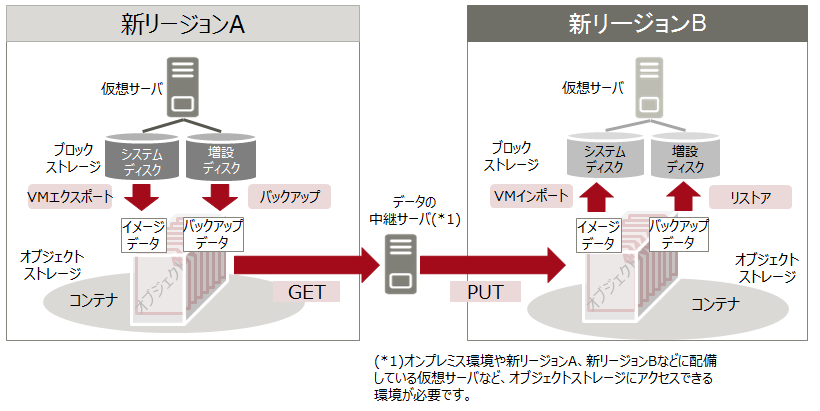
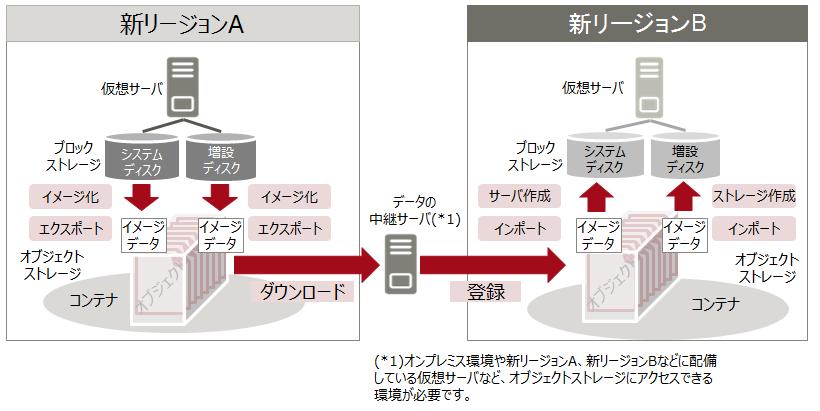
#11 対応

diff --git a/FAQ/README.md b/FAQ/README.md
@@ -2,16 +2,16 @@
 
 新リージョンについてよくある問い合わせ。
 
-| QUESTION                                  | ANSWER                                                       |
-| ----------------------------------------- | ------------------------------------------------------------ |
-| アピールポイントは？                      | ・可用性が向上し、SLAの適用が容易になりました。<br />・シングルAZのシンプル構成のため設計や運用などの負担が軽減されます。<br />・ベアメタルが提供されます。<br />・BCPサポートのため、データ（ストレージ）をリージョン間でコピーするための機能が提供されます。 |
-| 旧リージョンと何が違うの？                | ベースとなっているOpenStackのバージョンが違います。<br />また富士通独自開発を加えておらず、素のOpenstackを使っています。そのため世の中で広く使われているAnsibleといったツールが使いやすくなりました。 |
-| 旧リージョンに比べて何が良いの？①         | シングルAZ構成での可用性が向上しました。<br />例）<br />・ 電源やネットワーク機器など、設備機器の多重度をアップしました。<br />・物理サーバ故障時の影響範囲を極小化しました。<br />結果、シングルAZの利用でSLAが適用されるようになりました。 |
-| 旧リージョンに比べて何が良いの？②         | シングルAZ構成のため、設計、構築、テスト、運用の負担が大幅に軽減されます。 |
-| 旧リージョンに比べて何が良いの？③         | SAP HANA専用ではないベアメタルが提供されます。               |
+| QUESTION                                  | ANSWER                                                                                                                                                                                                                                                                                      |
+|:------------------------------------------|:--------------------------------------------------------------------------------------------------------------------------------------------------------------------------------------------------------------------------------------------------------------------------------------------|
+| アピールポイントは？                      | ・可用性が向上し、SLAの適用が容易になりました。<br />・シングルAZのシンプル構成のため設計や運用などの負担が軽減されます。<br />・ベアメタルが提供されます。<br />・BCPサポートのため、データ（ストレージ）をリージョン間でコピーするための機能が提供されます。                              |
+| 旧リージョンと何が違うの？                | ベースとなっているOpenStackのバージョンが違います。<br />また富士通独自開発を加えておらず、素のOpenstackを使っています。そのため世の中で広く使われているAnsibleといったツールが使いやすくなりました。                                                                                       |
+| 旧リージョンに比べて何が良いの？①         | シングルAZ構成での可用性が向上しました。<br />例）<br />・ 電源やネットワーク機器など、設備機器の多重度をアップしました。<br />・物理サーバ故障時の影響範囲を極小化しました。<br />結果、シングルAZの利用でSLAが適用されるようになりました。                                                |
+| 旧リージョンに比べて何が良いの？②         | シングルAZ構成のため、設計、構築、テスト、運用の負担が大幅に軽減されます。                                                                                                                                                                                                                  |
+| 旧リージョンに比べて何が良いの？③         | SAP HANA専用ではないベアメタルが提供されます。                                                                                                                                                                                                                                              |
 | 旧リージョンに比べて考慮が必要なことは？① | 機能や構成の容易さを改善した影響等で、技術的考慮が必要になった部分があります。<br />例）<br />・シングルAZなので、データセンターダウンといった大規模災害におけるBCPやDRPの観点<br />・ロードバランサー機能はOpenStack標準のロードバランサー機能を提供します。Active/Standbyの冗長構成です。 |
-| 旧リージョンに比べて考慮が必要なことは？② | 一部旧リージョンとサービスメニューや機能が変わった部分もあり、注意が必要です。<br />例）<br />・2018年6月時点でオブジェクトストレージやVMエクスポート機能がありません（今後提供予定）<br />・プロジェクト間接続機能がありません（今後提供予定ですが、現時点で必要な場合は個別に相談ください）<br />・オートスケールしたVMをロードバランサー配下に入れるための作業が必要です |
-| 旧リージョンに比べて価格は？              | 同価格帯です。                                               |
-| ユーザーポータルは旧リージョンと同じ？    | 基本的に同じです。ログイン後のリージョン選択で新リージョンが選択できます。<br />細かい機能部分では変わった部分もあります。（AZ指定が無くなった等）詳しくは[こちら](../userportal/README.md)を参照ください。 |
-| APIは旧リージョンと同じ？                 | 同じAPIもあれば異なるAPIもあります。詳しくは[こちら](../API/README.md)を参照ください。<br />全体を網羅した情報が必要な場合はAPIリファレンスを参照ください。 |
-| 旧リージョンと同じシステム構成で良い？    | 可用性向上等の基盤の変更に伴い、旧リージョンと違った構成でシステム設計が必要な場合があります。旧リージョンからの移行の際はご注意ください。<br />例）<br />・１つのネットワークを２つの仮想ルータに接続できない。<br />・ネットワークコネクターの廃止 |
+| 旧リージョンに比べて考慮が必要なことは？② | 一部旧リージョンとサービスメニューや機能が変わった部分もあり、注意が必要です。<br />例）<br />・プロジェクト間通信機能を利用する場合は、ヘルプデスクにお問い合わせください<br />・オートスケールしたVMをロードバランサー配下に入れるための作業が必要です                                    |
+| 旧リージョンに比べて価格は？              | 同価格帯です。                                                                                                                                                                                                                                                                              |
+| ユーザーポータルは旧リージョンと同じ？    | 基本的に同じです。ログイン後のリージョン選択で新リージョンが選択できます。<br />細かい機能部分では変わった部分もあります。（AZ指定が無くなった等）詳しくは[こちら](../userportal/README.md)を参照ください。                                                                                 |
+| APIは旧リージョンと同じ？                 | 同じAPIもあれば異なるAPIもあります。詳しくは[こちら](../API/README.md)を参照ください。<br />全体を網羅した情報が必要な場合はAPIリファレンスを参照ください。                                                                                                                                 |
+| 旧リージョンと同じシステム構成で良い？    | 可用性向上等の基盤の変更に伴い、旧リージョンと違った構成でシステム設計が必要な場合があります。旧リージョンからの移行の際はご注意ください。<br />例）<br />・１つのネットワークを２つの仮想ルータに接続できない。<br />・ネットワークコネクターの廃止                                        |

diff --git a/userportal/functiontable.md b/userportal/functiontable.md
@@ -2,38 +2,36 @@
 
 ユーザーポータルの新リージョン実装状況です。
 
-|                          |                        | 一覧 | 詳細 | 作成 | 削除 |  編集   |
-| ------------------------ | ---------------------- | :--: | :--: | :--: | :--: | :-----: |
-| コンピュート             | 仮想サーバ             |  ✓   |  ✓   |  ✓   |  ✓   |    ✓    |
-|                          | キーペア               |  ✓   |  ✓   |  ✓   |  ✓   |    -    |
-|                          | イメージ               |  ✓   |  ✓   |  ✓   |  ✓   |    -    |
-|                          | スケジュール           | N/A  | N/A  | N/A  | N/A  |   N/A   |
-| ストレージ               | ブロックストレージ     |  ✓   |  ✓   |  ✓   |  ✓   |    ✓    |
-|                          | オブジェクトストレージ | N/A  | N/A  | N/A  | N/A  |   N/A   |
-|                          | スナップショット       |  ✓   |  ✓   |  ✓   |  ✓   |    ✓    |
-| ネットワーク             | 仮想ネットワーク       |  ✓   |  ✓   |  ✓   |  ✓   |    ✓    |
-|                          | 仮想ルータ             |  ✓   |  ✓   |  ✓   |  ✓   |    ✓    |
-|                          | セキュリティグループ   |  ✓   |  ✓   |  ✓   |  ✓   |    ✓    |
-|                          | グローバルIP           |  ✓   |  -   |  ✓   |  ✓   |    -    |
-|                          | ファイアーウォール     |  ✓   |  ✓   |  ✓   |  ✓   |    ✓    |
-|                          | DNS(*1)                |  -   |  -   |  -   |  -   |    -    |
-|                          | ロードバランサー       |  ✓   |  ✓   |  ✓   |  ✓   | N/A(*2) |
-|                          | VPNサービス(SSL-VPN)   |  ✓   |  ✓   |  ✓   |  -   |    ✓    |
-|                          | VPNサービス(IPSecVPN)  | N/A  | N/A  | N/A  | N/A  |   N/A   |
-| データベース             | データベース仮想サーバ | N/A  | N/A  | N/A  | N/A  |   N/A   |
-| テンプレート             | スタック               | N/A  | N/A  | N/A  | N/A  |   N/A   |
-| 監視                     | モニタリング           | N/A  | N/A  | N/A  | N/A  |   N/A   |
-|                          | アラーム               | N/A  | N/A  | N/A  | N/A  |   N/A   |
-| インポート・エクスポート | VMインポート           | N/A  | N/A  | N/A  | N/A  |   N/A   |
-|                          | VMエクスポート         | N/A  | N/A  | N/A  | N/A  |   N/A   |
-| API実行(*3)              |                        |  -   |  -   |  -   |  -   |    -    |
-| ログ                     | 操作ログ               |  ✓   |  ✓   |  -   |  -   |    -    |
+|                          |                        | 提供  |
+|:-------------------------|:-----------------------|:-----:|
+| コンピュート             | 仮想サーバ             |   ✓   |
+|                          | キーペア               |   ✓   |
+|                          | イメージ               |   ✓   |
+|                          | スケジュール           |  N/A  |
+| ストレージ               | ブロックストレージ     |   ✓   |
+|                          | オブジェクトストレージ |   ✓   |
+|                          | スナップショット       |   ✓   |
+| ネットワーク             | 仮想ネットワーク       |   ✓   |
+|                          | 仮想ルータ             |   ✓   |
+|                          | セキュリティグループ   |   ✓   |
+|                          | グローバルIP           |   ✓   |
+|                          | ファイアーウォール     | ✓(*1) |
+|                          | DNS                    |  －   |
+|                          | ロードバランサー       | ✓(*2) |
+|                          | VPNサービス(SSL-VPN)   |   ✓   |
+|                          | VPNサービス(IPSecVPN)  |   ✓   |
+| データベース             | データベース仮想サーバ |  N/A  |
+| テンプレート             | スタック               |  N/A  |
+| 監視                     | モニタリング           |  N/A  |
+|                          | アラーム               |   ✓   |
+| インポート・エクスポート | VMインポート           |  N/A  |
+|                          | VMエクスポート         |  N/A  |
+| API実行                  |                        |   ✓   |
+| ログ                     | 操作ログ               |   ✓   |
 
 ✓：提供  
 N/A：今後提供予定  
--：旧リージョン含め提供なし  
+－：提供なし  
 
-(*1)DNSは東日本第1リージョンのみの提供です。  
-(*2)新規作成時も含めルールを設定、編集する機能は今後提供予定です。  
-(*3)API実行は旧リージョンと同じく実行機能の提供です。  
-
+(\*1)[ファイアーウォールサービスの制限事項](https://doc.cloud.global.fujitsu.com/lib/iaas/jp/restriction/v3/firewall_limitation.pdf)をご覧ください。  
+(\*2)編集はAPIを利用してください。  

diff --git a/userportal/README.md b/userportal/README.md
@@ -4,18 +4,13 @@
 
 主な相違点は下記表を参照ください。
 
-| 項目                                 | 旧リージョン                                                 | 新リージョン                                                 |
-| ------------------------------------ | ------------------------------------------------------------ | ------------------------------------------------------------ |
-| メニュー／機能                       | -                                                            | 未リリース機能やポータル未実装のメニューがあります。(*1)<br />ユーザーポータル実装済機能の詳細は[こちら](functiontable.md)を参照ください。 |
-| 初期表示画面                         | ダッシュボード画面                                           | 仮想サーバ一覧画面(*1)                                       |
-| 各機能のAZ名表示／選択               | 有り                                                         | 無し<br />新リージョンはシングルAZです。<br />AZ指定要否の詳細は[こちら](az-parameter.md)を参照ください。 |
-| ファイアーウォール名と説明の文字制限 | 名称：255文字以内<br />説明：255文字以内                     | 名称：255バイト以内<br />説明：1024バイト以内                |
-| ロードバランサー機能(*2)             | 旧リージョンのロードバランサー仕様に合わせたインタフェースです。 | 新リージョンのロードバランサー仕様に合わせたインタフェースです。 |
+| 項目                                 | 旧リージョン                                                     | 新リージョン                                                                                                                               |
+|:-------------------------------------|:-----------------------------------------------------------------|:-------------------------------------------------------------------------------------------------------------------------------------------|
+| メニュー／機能                       | -                                                                | 未リリース機能やポータル未実装のメニューがあります。(*1)<br />ユーザーポータル実装済機能の詳細は[こちら](functiontable.md)を参照ください。 |
+| 初期表示画面                         | ダッシュボード画面                                               | 仮想サーバ一覧画面(*1)                                                                                                                     |
+| 各機能のAZ名表示／選択               | あり                                                             | 無し<br />新リージョンはシングルAZです。                                                                                                   |
+| ファイアーウォール名と説明の文字制限 | 名称：255文字以内<br />説明：255文字以内                         | 名称：255バイト以内<br />説明：1024バイト以内                                                                                              |
+| ロードバランサー機能(*2)             | 旧リージョンのロードバランサー仕様に合わせたインタフェースです。 | 新リージョンのロードバランサー仕様に合わせたインタフェースです。                                                                           |
 
 (*1)今後のダッシュボード機能リリースに伴い変更予定です。  
 (*2)機能仕様の変更に伴い、ユーザーポータル画面も大幅に変更しています。機能の詳細は機能説明書、APIリファレンスを参照ください。
-
-
-
-
-

diff --git a/storagefunction/copy-to-another-region.md b/storagefunction/copy-to-another-region.md
@@ -1,32 +1,45 @@
 # ストレージリージョン間コピー
 
-仮想サーバのブロックストレージデータをリージョン間でコピーし、他リージョンで復元するための基本的な流れは次の通りです。
+仮想サーバのブロックストレージを他リージョンへコピーするための、基本的な流れは次の通りです。  
 
-1. 仮想サーバのブロックストレージデータをVMエクスポート機能、バックアップ機能（*1）を用いてオブジェクトストレージに格納
-2. オブジェクトストレージの機能を使い、中継サーバを経由して他リージョンへデータをコピー
-3. 他リージョンに格納されたデータからVMインポート機能、リストア機能を用いて仮想サーバを復元
+1. 仮想サーバのブロックストレージをイメージ化  
+2. イメージデータをエクスポートし、オブジェクトストレージに格納  
+3. 中継サーバを経由して、他リージョンのオブジェクトストレージにコピー  
+4. コピーしたイメージデータを用いて、仮想サーバを作成  
 
-(*1)増設ディスクのバックアップ機能は新リージョンのみの提供です。(2018年9月末予定)
 
+
+-----
 
 
 ## 旧リージョン
 
+旧リージョンでは、増設ディスクをイメージ化できません。
+
 ![drp-sample-old](images/drp-sample-old.png)
 
-旧リージョンでは、増設ディスクをオブジェクトストレージにバックアップする機能が提供されていません。
 
+
+-----
 
 
 ## 新リージョン
 
+新リージョンでは、増設ディスクのイメージ化、およびエクスポート機能を利用できるため、他リージョンへのコピーが容易になります。  
+
+- 他リージョンのイメージは参照できないため、リージョン毎にイメージを登録してください。  
+
 ![drp-sample-new](images/drp-sample-new.png)
 
-新リージョンでは、増設ディスクをオブジェクトストレージにバックアップする機能が提供される(2018年9月末予定)ため、リージョン間でのブロックストレージデータのコピーが旧リージョンに比べ容易になります。
+
 
 -----
 
+
 #### 補足情報
 
-- ライセンスの都合上、システムディスクのコピーは新リージョン同士、もしくは旧リージョン同士のみです。新リージョンから旧リージョン、または旧リージョンから新リージョンへのコピーは実施できません。
+- ライセンスの都合上、システムディスクのコピーは新リージョン同士、もしくは旧リージョン同士のみです。  
+新リージョンから旧リージョン、または旧リージョンから新リージョンへのコピーは実施できません。  
 
+- 旧リージョンにおいても、以下の機能追加を予定しています。  
+    - 増設ディスクのイメージ化、およびエクスポート機能  

diff --git a/serverfunction/README.md b/serverfunction/README.md
@@ -3,17 +3,14 @@
 
 
 | カテゴリ                                | 旧リージョン | 新リージョン                                                 |
-| --------------------------------------- | ------------ | ------------------------------------------------------------ |
-| [仮想サーバタイプ（Flavor）](flavor.md) | 提供有り     | 提供あり<br />旧リージョンとの差異はリンク先を参照ください。 |
-| [提供OS](OS.md)                         | 提供有り     | 提供あり<br />旧リージョンとの差異はリンク先を参照ください。 |
-| [提供ソフトウェア](software.md)         | 提供有り     | 提供あり<br />旧リージョンとの差異はリンク先を参照ください。 |
-| ベアメタルサービス                      | 提供無し     | 提供有り(東日本リージョン3のみ(*1))                          |
-| 専有仮想サーバ                          | 提供有り     | 提供無し                                                     |
-| SAP向けサービス                         | 提供有り     | 提供無し                                                     |
-| SAP HANA向けサービス                    | 提供有り     | 提供無し                                                     |
-| 仮想サーバエクスポート                  | 提供有り     | 今後提供予定(*2)                                             |
+|:----------------------------------------|:-------------|:-------------------------------------------------------------|
+| [仮想サーバタイプ（Flavor）](flavor.md) | 提供あり     | 提供あり<br />旧リージョンとの差異はリンク先を参照ください。 |
+| [提供OS](OS.md)                         | 提供あり     | 提供あり<br />旧リージョンとの差異はリンク先を参照ください。 |
+| [提供ソフトウェア](software.md)         | 提供あり     | 提供あり<br />旧リージョンとの差異はリンク先を参照ください。 |
+| ベアメタルサービス                      | 提供あり     | 提供あり(東日本リージョン3のみ(*1))                          |
+| 専有仮想サーバ                          | 提供あり     | 提供無し                                                     |
+| SAP向けサービス                         | 提供あり     | 提供無し                                                     |
+| SAP HANA向けサービス                    | 提供あり     | 提供無し                                                     |
+| 仮想サーバエクスポート                  | 提供あり     | 提供あり                                                     |
 
-(*1)西日本リージョン3は2018年8月提供予定です。
-
-(*2)2018年9月末提供予定です。
-
+(*1)西日本リージョン３については今後提供予定です。

diff --git a/storagefunction/README.md b/storagefunction/README.md
@@ -2,23 +2,12 @@
 
 
 
-| カテゴリ                                                     | 旧リージョン                                   | 新リージョン                             |
-| ------------------------------------------------------------ | ---------------------------------------------- | ---------------------------------------- |
-| ブロックストレージ                                           | スタンダード：HDD<br />ハイパフォーマンス：SSD | スタンダード：SSD<br />※標準でSSDです    |
-| [オブジェクトストレージ](objectstorage.md)                   | 提供有り                                       | 提供有り（西日本リージョン3のみ(*1)）    |
-| NAS                                                          | 提供有り                                       | 今後提供予定(*2)                         |
-| バックアップ(増設ディスク)(*3)                               | 提供無し                                       | 今後提供予定(*4)                         |
-| [ストレージリージョン間コピー](copy-to-another-region.md)(*5) | システムディスクのみ可能                       | システムディスク、増設ディスクともに可能 |
+| カテゴリ                                                  | 旧リージョン                                   | 新リージョン                             |
+|:----------------------------------------------------------|:-----------------------------------------------|:-----------------------------------------|
+| ブロックストレージ                                        | スタンダード：HDD<br />ハイパフォーマンス：SSD | スタンダード：SSD<br />※標準でSSDです    |
+| [オブジェクトストレージ](objectstorage.md)                | 提供あり                                       | 提供あり                                 |
+| NAS                                                       | 提供あり                                       | 今後提供予定(*1)                         |
+| 増設ディスクのイメージ化                                  | 提供無し                                       | 提供あり                                 |
+| [ストレージリージョン間コピー](copy-to-another-region.md) | システムディスクのみ可能                       | システムディスク、増設ディスクともに可能 |
 
-(*1)東日本リージョン3での提供開始は9月末予定です。    
-(*2)提供日は未定です。  
-(*3)仮想サーバ用のブロックストレージ（増設ディスク）をオブジェクトストレージにバックアップする機能です。  
-(*4)2018年9月末提供予定です。  
-(*5)2018年9月末提供予定です。      
-
-
-
-
-
-
-
+(*1)提供日は未定です。  

diff --git a/networkdesign/README.md b/networkdesign/README.md
@@ -1,13 +1,13 @@
 # ネットワーク機能
 
-| カテゴリ                                             | 変更ポイント                                                 |
-| ---------------------------------------------------- | ------------------------------------------------------------ |
-| [仮想ルータとネットワークの接続](vrouter-network.md) | 新リージョンでは１つの仮想ルータに複数ネットワークを接続します。 |
-| [ネットワークコネクター](networkconnector.md)        | 新リージョンではネットワークコネクターが廃止されました。     |
-| [プロジェクト間通信](projectconnection.md)           | ネットワーク構成や接続プロセスに差異／注意点があります。     |
-| L2延伸                                               | 新リージョンではL2延伸機能が提供されます。（東日本リージョン3のみ(*1)） |
-| [ファイアーウォール](fwaas.md)                       | ルール変更（FWポリシー変更）の反映タイミングに違いがあります。 |
+| カテゴリ                                             | 変更ポイント                                                                                        |
+|:-----------------------------------------------------|:----------------------------------------------------------------------------------------------------|
+| [仮想ルータとネットワークの接続](vrouter-network.md) | 新リージョンでは１つの仮想ルータに複数ネットワークを接続します。                                    |
+| [ネットワークコネクター](networkconnector.md)        | 新リージョンではネットワークコネクターが廃止されました。                                            |
+| [プライベート接続](privateconnection.md)             | ネットワーク構成に差異／注意点があります。                                                          |
+| [プロジェクト間通信](projectconnection.md)           | ネットワーク構成や接続プロセスに差異／注意点があります。                                            |
+| L2延伸                                               | 新リージョンではL2延伸機能が提供されます。（東日本リージョン3のみ(*1)）                             |
+| [ファイアーウォール](fwaas.md)                       | ルール変更（FWポリシー変更）の反映タイミングに違いがあります。                                      |
 | [ロードバランサー](lbaas.md)                         | 新リージョンではOpenStack標準のロードバランサー機能が提供されます。（旧リージョンは富士通独自開発） |
 
 (*1)西日本リージョン３については今後提供予定です。
-

diff --git a/API/knowledge/getAPIendpoint.md b/API/knowledge/getAPIendpoint.md
@@ -1,13 +1,46 @@
 # APIエンドポイントの取得方法
 
-API発行例です。トークンを取得後、以下のようなコマンドで取得可能です。
+## API発行例  
+
+トークンを取得後、以下のようなコマンドで取得可能です。
+
+- $REG：リージョン  
+- $IDENTITY：利用者管理のAPIエンドポイント  
+- $TOKEN：取得したトークン  
 
 ```
-curl -k -X POST -s $TOKEN/v3/auth/tokens -H "Content-Type: application/json" -H "Accept:application/json" -d '{"auth":{"identity":{"methods":["password"],"password":{"user":{"domain":{"name":"'$DOMAIN_NAME'"}, "name": "'$USER_NAME'", "password": "'"$USER_PW"'"}}}, "scope": { "project": {"name": "'$PROJECT_NAME'", "domain":{"name":"'$DOMAIN_NAME'"}}}}}' | jq '.token.catalog[].endpoints[].url'
+REG=jp-west-3
+IDENTITY=https://identity.$REG.cloud.global.fujitsu.com
+TOKEN=zzzzz
+
+curl -s $IDENTITY/v3/auth/catalog -X GET -H "X-Auth-Token: $TOKEN" | jq '.catalog[].endpoints[].url'
 ```
 
-- $TOKEN：トークン
-- $DOMAIN_NAME：ドメイン名
-- $USER_NAME：ユーザー名
-- $USER_PW：パスワード
 
+---
+
+
+実行結果(2018年10月時点)  
+
+- xxxxx：プロジェクトID  
+
+```
+"https://compute.jp-west-3.cloud.global.fujitsu.com/v2.1/xxxxx"
+"https://keymanagement.jp-west-3.cloud.global.fujitsu.com"
+"https://image.jp-west-3.cloud.global.fujitsu.com"
+"https://objectstorage.jp-west-3.cloud.global.fujitsu.com/v2/AUTH_xxxxx"
+"https://networking.jp-west-3.cloud.global.fujitsu.com"
+"https://orchestration.jp-west-3.cloud.global.fujitsu.com/v1/xxxxx"
+"https://blockstorage.jp-west-3.cloud.global.fujitsu.com/v2/xxxxx"
+"https://database.jp-west-3.cloud.global.fujitsu.com/v1.0/xxxxx"
+"https://blockstorage.jp-west-3.cloud.global.fujitsu.com/v3/xxxxx"
+"https://identity.jp-west-3.cloud.global.fujitsu.com"
+"https://compute.jp-west-3.cloud.global.fujitsu.com/v2/xxxxx"
+"https://nfv.jp-west-3.cloud.global.fujitsu.com"
+"https://baremetal.jp-west-3.cloud.global.fujitsu.com"
+"https://telemetry.jp-west-3.cloud.global.fujitsu.com"
+"https://software.jp-west-3.cloud.global.fujitsu.com"
+"https://autoscale.jp-west-3.cloud.global.fujitsu.com"
+"https://identity.jp-west-3.cloud.global.fujitsu.com/v3"
+"https://import-export.jp-west-3.cloud.global.fujitsu.com"
+```

diff --git a/networkdesign/projectconnection.md b/networkdesign/projectconnection.md
@@ -1,15 +1,16 @@
 # プロジェクト間通信
 
-ネットワーク構成や接続プロセスに差異／注意点があります。
+ネットワーク構成や接続プロセスに差異／注意点があります。  
+新リージョンの詳細については、[プロジェクト間ネットワーク接続利用ガイド](https://doc.cloud.global.fujitsu.com/lib/iaas/jp/Inter_project_connection_guide/Inter_project_connection_guide.pdf)をご覧ください。
 
-|                      | 旧リージョン                                         | 新リージョン                                                 |
-| -------------------- | ---------------------------------------------------- | ------------------------------------------------------------ |
-| ネットワーク構成(*1) | １つのネットワークを複数の仮想ルータに接続可能です。 | １つのネットワークは１つの仮想ルータに接続するシンプル構成です。 |
-| 接続プロセス         | APIを用いて利用者自身で接続です。                    | 利用申請後、サービス提供側で接続します。(*2)                 |
+|                  | 旧リージョン                                         | 新リージョン                                                     |
+|:-----------------|:-----------------------------------------------------|:-----------------------------------------------------------------|
+| ネットワーク構成 | １つのネットワークを複数の仮想ルータに接続可能です。 | １つのネットワークは１つの仮想ルータに接続するシンプル構成です。 |
+| 接続プロセス     | APIを用いて利用者自身で接続です。                    | 利用申請後、サービス提供側で接続します。                         |
 
-(*1)基本的なネットワーク構成の説明は[こちら](vrouter-network.md)を参照ください。  
-(*2)APIを用いての接続方式を検討中です。
 
+
+------
 
 
 ## 旧リージョンのネットワーク構成
